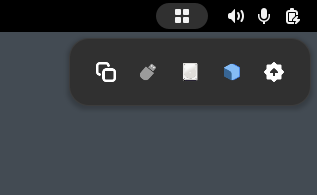
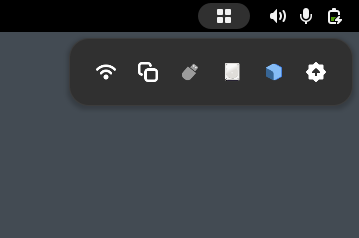
feat: Add network widget

Changed region(s): [[0.2271, 0.2462, 0.9937, 0.5538], [0.0, 0.0, 1.0, 0.4308]]

diff --git a/qubes-tray-widgets@a.pebl.cc/extension.js b/qubes-tray-widgets@a.pebl.cc/extension.js
@@ -12,8 +12,9 @@ const _ = ExtensionUtils.gettext
 const Me = ExtensionUtils.getCurrentExtension()
 
 Gio._promisify(Gio.Subprocess.prototype, 'communicate_utf8_async')
+Gio._promisify(Gio.Subprocess.prototype, 'wait_async')
 
-async function cmd(argv, cancellable = null) {
+const cmd = async (argv, cancellable = null) => {
   const flags = Gio.SubprocessFlags.STDOUT_PIPE | Gio.SubprocessFlags.STDERR_PIPE
   const proc = new Gio.Subprocess({ argv: argv, flags: flags })
   proc.init(cancellable)
@@ -39,10 +40,27 @@ async function cmd(argv, cancellable = null) {
   }
 }
 
+const spawn = async (argv, cancellable = null) => {
+  const flags = Gio.SubprocessFlags.NONE
+  const proc = new Gio.Subprocess({ argv: argv, flags: flags })
+  proc.init(cancellable)
+
+  const cancel_id = cancellable ? cancellable.connect(() => proc.force_exit()) : 0
+
+  try {
+    await proc.wait_async(cancellable)
+    return proc.get_successful()
+  } finally {
+    if (cancel_id > 0) {
+      cancellable.disconnect(cancel_id)
+    }
+  }
+}
+
 const TrayWidget = GObject.registerClass(
   {},
   class TrayWidget extends St.Button {
-    #indicator
+    _indicator
     #command
 
     constructor(indicator, command, icon_name) {
@@ -50,7 +68,7 @@ const TrayWidget = GObject.registerClass(
         child: new St.Icon({ icon_name: icon_name }),
         style_class: 'panel-button system-status-icon',
       })
-      this.#indicator = indicator
+      this._indicator = indicator
       this.#command = command
     }
 
@@ -71,11 +89,46 @@ const TrayWidget = GObject.registerClass(
 
     async show_menu() {
       const promise = cmd(['pgrep', this.#command])
-      this.#indicator.menu.close()
+      this._indicator.menu.close()
       const output = await promise
       const pid = output.split('\n')[0]
       if (!pid) throw new Error(`Could not find process: ${this.#command}`)
       await cmd(['kill', '-USR1', pid])
+    }
+  },
+)
+
+const NetworkTrayWidget = GObject.registerClass(
+  {},
+  class NetworkTrayWidget extends TrayWidget {
+    #settings
+
+    constructor(indicator) {
+      super(indicator, null, 'network-wireless-symbolic')
+      this.#settings = ExtensionUtils.getSettings()
+    }
+
+    async show_menu() {
+      const netvm = this.#settings.get_value('netvm').unpack()
+      const argv = this.#settings.get_value('netvm-command').deep_unpack()
+      this._indicator.menu.close()
+      if (argv.length === 0) {
+        const gnome_settings = this.#check_command(netvm, 'gnome-control-center')
+        const nm_editor = this.#check_command(netvm, 'nm-connection-editor')
+
+        if (await gnome_settings) {
+          await spawn(['qvm-run', netvm, 'gnome-control-center', 'wifi'])
+        } else if (await nm_editor) {
+          await spawn(['qvm-run', netvm, 'nm-connection-editor'])
+        }
+        throw new Error('No available network menu commands')
+      } else {
+        await spawn(['qvm-run', netvm, ...argv])
+      }
+    }
+
+    async #check_command(netvm, command) {
+      return await spawn(['qvm-run', netvm, 'sh', '-c', `command -v ${command}`])
     }
   },
 )
@@ -105,6 +158,7 @@ const Indicator = GObject.registerClass(
     }
 
     #setup_widgets() {
+      this.#network_widget()
       this.#widget('qui-clipboard', 'edit-copy')
       this.#widget('qui-devices', 'qubes-devices')
       this.#widget('qui-disk-space', 'drive-harddisk')
@@ -114,6 +168,11 @@ const Indicator = GObject.registerClass(
 
     #widget(command, icon_name) {
       const widget = new TrayWidget(this, command, icon_name)
+      this.#widgets.add_child(widget)
+    }
+
+    #network_widget() {
+      const widget = new NetworkTrayWidget(this)
       this.#widgets.add_child(widget)
     }
   },
